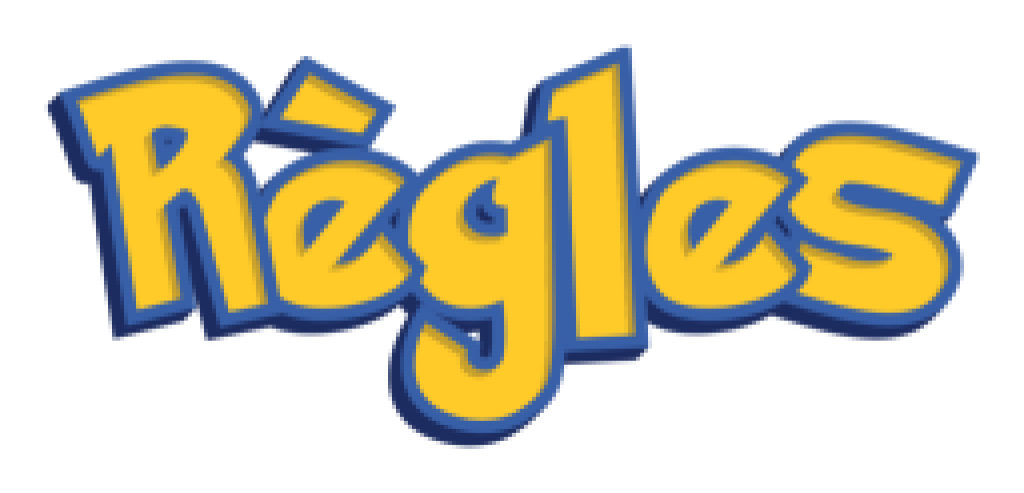
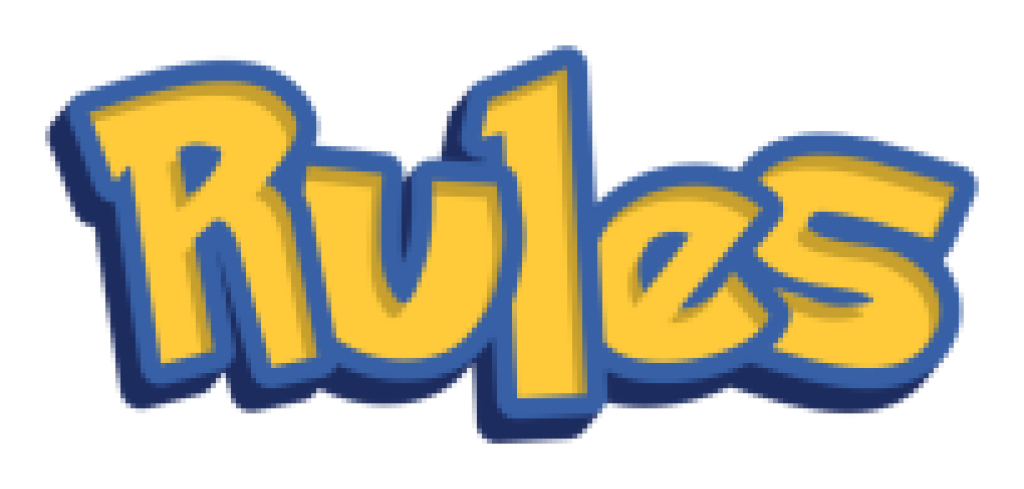
Fini mais pb random

diff --git a/main_window.py b/main_window.py
@@ -9,6 +9,7 @@ from Cwebcam import Cweb
 from save_img import save_frame
 from find_pokemon import find_pokemon
 import threading
+import random
 
 class Menu(tk.Tk):
     name=str
@@ -70,12 +71,21 @@ class Menu(tk.Tk):
         self.boutonRe = ctk.CTkButton(self, text="Replay", command=self.Jouer, height=30, width=50, font=(self.police), text_color="#FFCB29", fg_color="#3860A8", hover_color="#00C4F0", corner_radius=0, border_width=4, border_color="#1D2C60")
     
         #Textes 
-        
+
+        self.textePika1 = tk.Label(self,justify="left",bg="white",bd=4,relief="ridge",fg="black",font=self.police2,text="Brock: It’s a Pikachu ! Did you know ? The impact\nand success of the Pokemon is such that the\nfranchise inspired science during a discovery.\nIn 2008, Japanese researchers discovered a\nnew protein that reacts to electricity. So\nthey simply decided to call it Pikachurine\n in obvious reference to Pikachu.")
+        self.textePika2 = tk.Label(self,justify="left",bg="white",bd=4,relief="ridge",fg="black",font=self.police2,text="Brock: Ah! I know a Pikachu when I see one! Tell me\n, did you know that the name Pikachu had a\n rather funny origin? Indeed the “Pika” would\n come from the Japanese onomatopoeia\n “pika-pika” which would mean something\n sparkling, brilliant.  The “chu” would come from\n the noise made by a mouse in Japanese!")
+        self.textePika3 = tk.Label(self,justify="left",bg="white",bd=4,relief="ridge",fg="black",font=self.police2,text="Brock: Wow! What a nice drawing of Pikachu! These\nPokemons live in the forest away from humans.\nThey basically eat fruit. When they are not\nmature enough, they electrify them with\nelectricity stored in their cheeks to make them\nmore tender. If a storm is approaching, it is\nbecause several Pikachu have gathered!")
+        self.textePiplup1 = tk.Label(self,justify="left",bg="white",bd=4,relief="ridge",fg="black",font=self.police2,text="Brock: It’s a Piplup ! Despite appearances, it’s a very\nproud Pokémon that has a hard time\nconnecting with its trainer. He has a very\nawkward walk but still proudly bombs the\ntorso. He is also an excellent swimmer, who can\nsnorkel under water for up to ten minutes while\nhunting.")
+        self.textePiplup2 = tk.Label(self,justify="left",bg="white",bd=4,relief="ridge",fg="black",font=self.police2,text="Brock: What a beautiful drawing of Piplup ! Did you\nknow that this Pokémon and its evolutions\nare mainly inspired by the emperor Napoleon\nBonaparte? Indeed, the name of his last\nevolution Empoleon is composed of \n“Emperor” and “Napoleon”, plus its size is\n1m70 or almost that of the French emperor.")
+        self.textePiplup3 = tk.Label(self,justify="left",bg="white",bd=4,relief="ridge",fg="black",font=self.police2,text="Brock: I love this Piplup drawing! It’s a very popular\nPokémon among the Pokémon community.\nThis popularity is partly due to the Pokémon\nDiamond and Pearl games that rank fourth\namong the best-selling games of the\nNintendo DS, the 2nd best-selling console\nof all time.")
+        self.texteEspeon1 = tk.Label(self,justify="left",bg="white",bd=4,relief="ridge",fg="black",font=self.police2,text="Brock: It’s a Espeon! The gem he wears in the\nmiddle reinforces the psychic powers he has\nacquired to protect his Trainer. His forked tail\nshudders when he predicts the movements of\nhis opponents. It is rare to find Mentali in the\nwild, and it is more often visible in urban areas.")
+        self.texteEspeon2 = tk.Label(self,justify="left",bg="white",bd=4,relief="ridge",fg="black",font=self.police2,text="Brock: Wow! Great drawing you made us there!\nApparently, Espeon’s appearance seems\nto be inspired by the legends of Bakeneko\nand Nekomata, two yōkai depicted as\nmysterious and intelligent cats with\nsupernatural powers. Unfortunately, this\ninformation has never been confirmed by the\ncreators.")
+        self.texteEspeon3 = tk.Label(self,justify="left",bg="white",bd=4,relief="ridge",fg="black",font=self.police2,text="Brock: Ah! That’s a beautiful drawing of Espeon!\nThis Pokemon is extremely faithful to any\nTrainer he deems worthy. It is said that this\nPokemon has developed its precognitive\npowers to protect its trainer from evil. He also\nlearned to read drafts in order to predict the\nmovements of these opponents.")
+        self.texteNI = tk.Label(self,justify="left",bg="white",bd=4,relief="ridge",fg="black",font=self.police2,text="Oh… Looks like I couldn’t recognize the\nPokemon you wanted to draw! Maybe the\npicture was not taken correctly, make sure you\nhave good lighting! (Or maybe your drawing was\nhorrible, but I dare not tell you…)")
         self.texte = tk.Label(self,justify="left",bg="white",bd=4,relief="ridge",fg="black",font=self.police2,text="Brock: Hey, my name is Brock! I hope you are ready to show me your best\nartistic talents. First, draw one of the three Pokemon proposed: Pikachu,\nPiplup and Espeon. Once your beautiful drawing is done, show it to me\non camera and take a picture! If the artist’s soul is in you, I should be able\n to recognize which Pokémon you drew to give you some anecdotes about it!")
         self.response = tk.Label(self,justify="left",bg="white",bd=4,relief="ridge",fg="black",font=self.policeR,text= "")
         self.texte2 = tk.Label(self,justify="left",bg="white",bd=4,relief="ridge",fg="black",font=self.police2,text="Brock : Choose the Pokémon you want to draw!\nDon’t hesitate to go online to get inspired!")
-        self.texteR = tk.Label(self,justify="left",bg="white",bd=4,relief="ridge",fg="black",font=self.police2,text="It’s a Pikachu ! Did you know ? The impact\nand success of the Pokemon is such that the\nfranchise inspired science during a discovery.\nIn 2008, Japanese researchers discovered a\nnew protein that reacts to electricity. So\nthey simply decided to call it\nPikachurine in obvious reference to Pikachu.")
-        
+       
         #Affiche le menu.
 
         self.AfficheMenu()
@@ -83,7 +93,6 @@ class Menu(tk.Tk):
         #test bar de charg
 
         self.progress_bar = ttk.Progressbar(self, orient="horizontal", mode="indeterminate")
-
     
     def charg_cam(self):
         def cam_th():
@@ -168,22 +177,26 @@ class Menu(tk.Tk):
             print(f"Objet détecté : {self.name}, Score de confiance : {self.confidence}")
             if self.name == "tiplouf":
                 self.canvas.create_image(310,220,image=self.tiplouf,tag="tiplouf")
-                self.canvas.create_image(750,180,image=self.pierreP,tag="PierreP")
+                self.canvas.create_image(750,200,image=self.pierreP,tag="PierreP")
+                random.choice([self.textePiplup1.place(relx=0.70, rely=0.65, anchor="center"),self.textePiplup2.place(relx=0.70, rely=0.65, anchor="center"),self.textePiplup3.place(relx=0.70, rely=0.65, anchor="center")])
                 self.response['text'] = "Piplup"
             
             if self.name == "mentali":
                 self.canvas.create_image(315,220,image=self.mentali,tag="mentali")
                 self.canvas.create_image(750,200,image=self.pierreP,tag="PierreP")
+                random.choice([self.texteEspeon1.place(relx=0.70, rely=0.65, anchor="center"),self.texteEspeon2.place(relx=0.70, rely=0.65, anchor="center"),self.texteEspeon3.place(relx=0.70, rely=0.65, anchor="center")])
                 self.response['text'] = "Espeon"
             
             if self.name == "pikachu":
                 self.canvas.create_image(330,200,image=self.pikachu,tag="pikachu")
                 self.canvas.create_image(750,200,image=self.pierreP,tag="PierreP")
+                random.choice([self.textePika1.place(relx=0.70, rely=0.65, anchor="center"),self.textePika2.place(relx=0.70, rely=0.65, anchor="center"),self.textePika3.place(relx=0.70, rely=0.65, anchor="center")])
                 self.response['text'] = "Pikachu"
         else :
             self.canvas.create_image(315,230,image=self.pastrouve,tag="Point_int")
-            self.canvas.create_image(750,180,image=self.pierrePB,tag="PierreP")
-            self.response['text'] = "Pokémon non identifié"
+            self.canvas.create_image(750,185,image=self.pierrePB,tag="PierrePB")
+            self.texteNI.place(relx=0.75, rely=0.6, anchor="center")
+            self.response['text'] = "Pokemon not found"
             
     def Photo(self):
         self.cam.togle_cam()
@@ -200,7 +213,6 @@ class Menu(tk.Tk):
         self.cam.place_forget()
         self.boutonM.place(relx=0.4, rely=0.9, anchor="center")
         self.boutonRe.place(relx=0.6, rely=0.9, anchor="center")
-
         
 
 
